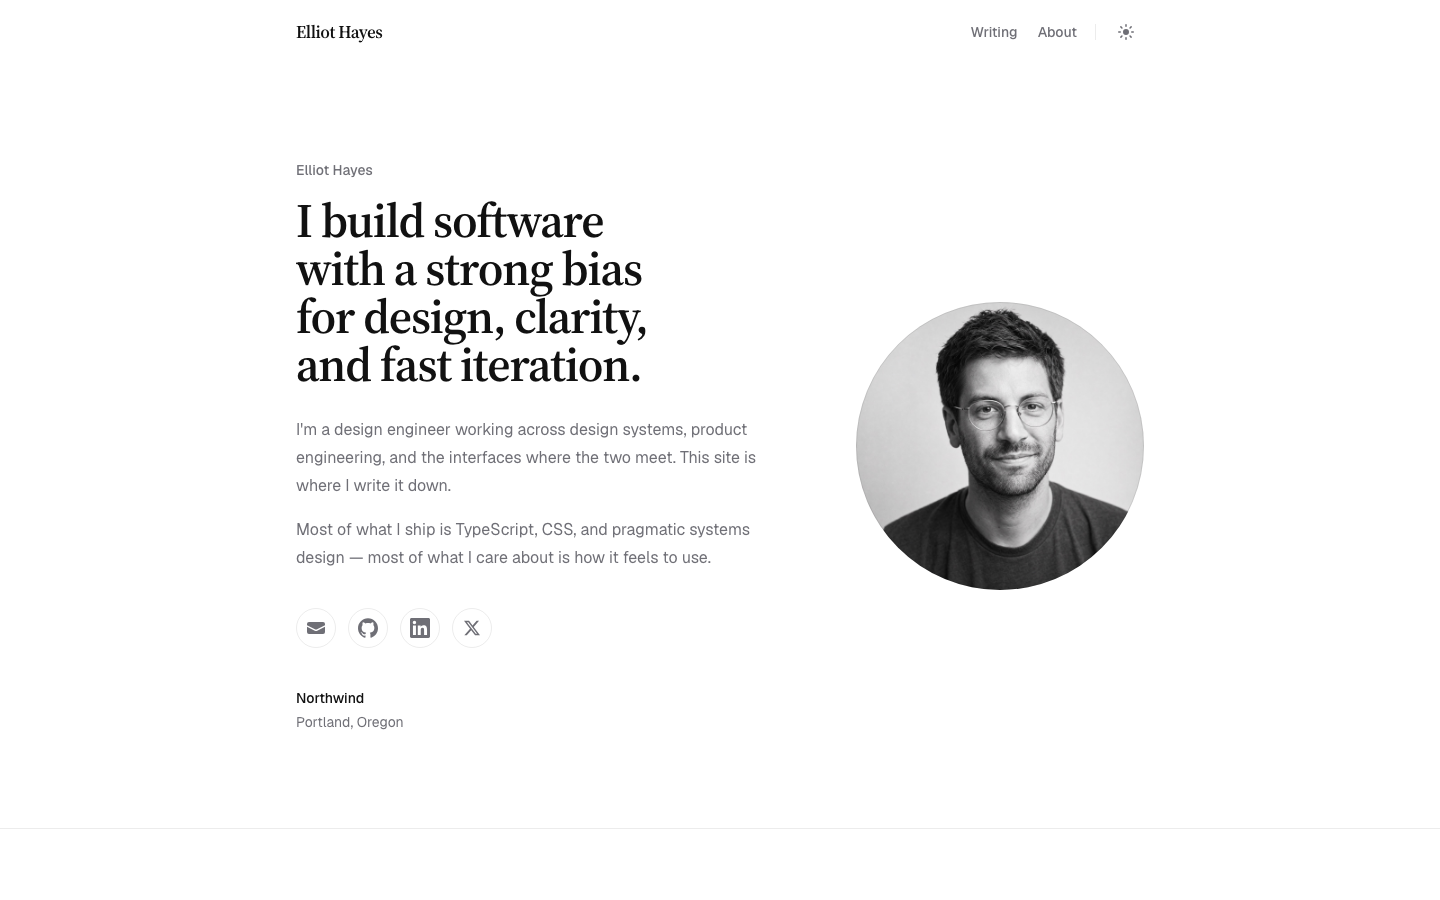
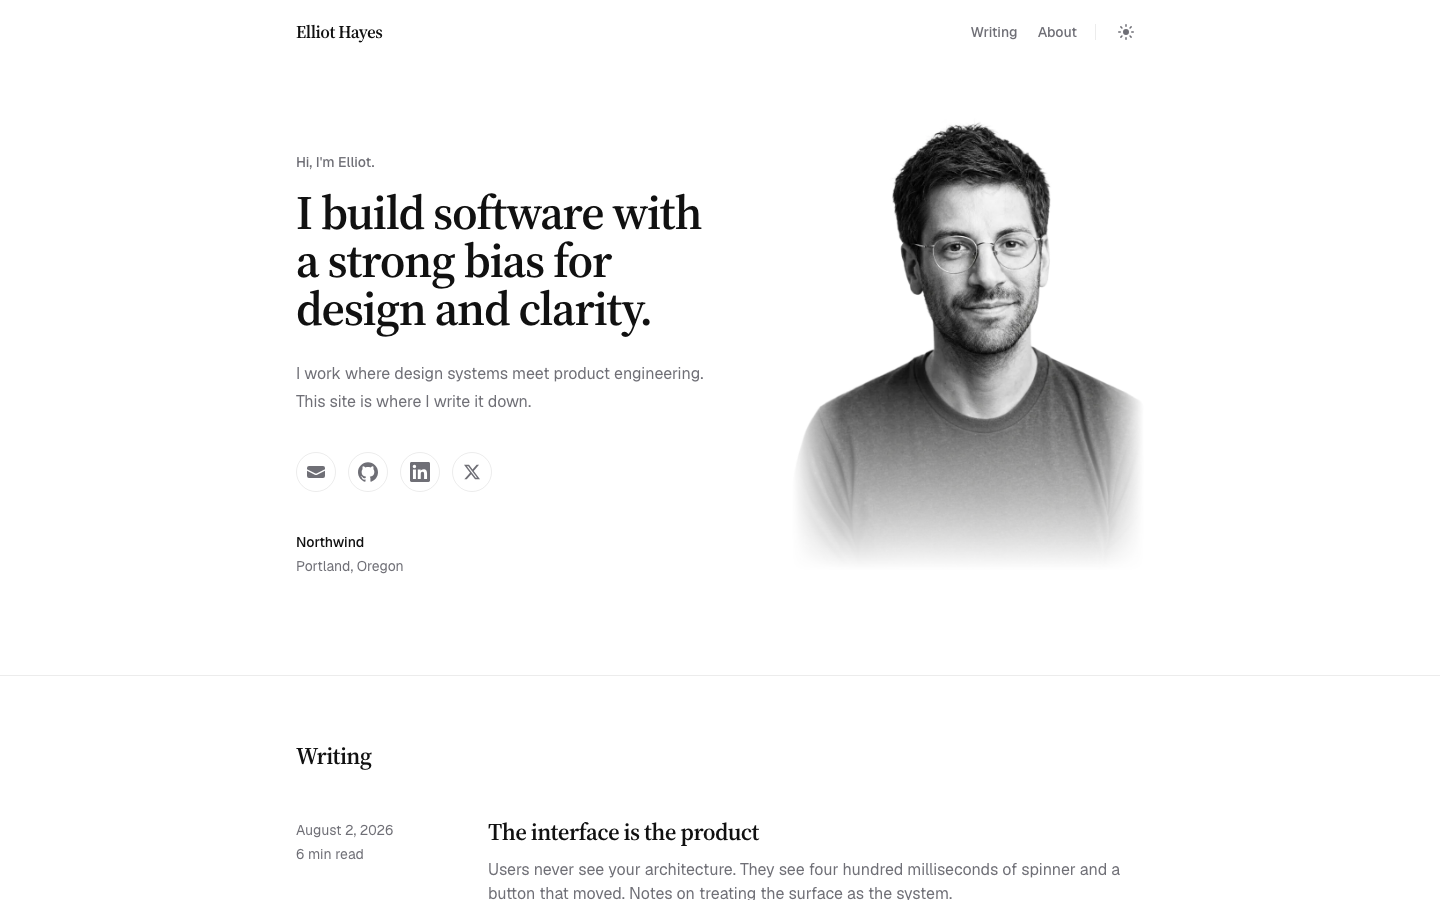
Masthead remaster: shorter greeting copy and the fade-out portrait graphic
The copy tightens to a greeting line, one serif statement, and a single
bio sentence. The circular avatar becomes a background-free high-key
cutout on the right whose shoulders feather into the canvas
(portrait-fade mask), sitting higher against the nav — it melts into
white in light mode and into the near-black in dark. New thumbnail.

diff --git a/files/resources/css/site.css b/files/resources/css/site.css
@@ -139,6 +139,18 @@ body {
 }
 
 /*
+    The masthead portrait: a background-free cutout whose lower edge feathers
+    out, so the figure melts into the canvas — white in light mode, near-black
+    in dark — like ink lifting off the page.
+*/
+@utility portrait-fade {
+    mask-image:
+        linear-gradient(to bottom, black 55%, transparent 95%),
+        linear-gradient(to right, transparent 0%, black 14%, black 86%, transparent 100%);
+    mask-composite: intersect;
+}
+
+/*
     The reading progress hairline on article pages. main.js drives --progress
     from scroll position; the bar only exists where the markup includes it.
 */

diff --git a/files/resources/views/components/sections/masthead.blade.php b/files/resources/views/components/sections/masthead.blade.php
@@ -1,38 +1,40 @@
 @props([
-    'name' => 'Elliot Hayes',
-    'statement' => 'I build software with a strong bias for design, clarity, and fast iteration.',
-    'bio' => "I'm a design engineer working across design systems, product engineering, and the interfaces where the two meet. This site is where I write it down.",
-    'bioTwo' => 'Most of what I ship is TypeScript, CSS, and pragmatic systems design — most of what I care about is how it feels to use.',
+    'greeting' => "Hi, I'm Elliot.",
+    'statement' => 'I build software with a strong bias for design and clarity.',
+    'bio' => 'I work where design systems meet product engineering. This site is where I write it down.',
+    'bioTwo' => '',
     'company' => 'Northwind',
     'location' => 'Portland, Oregon',
-    'portrait' => '/images/portrait.jpg',
+    'portrait' => '/images/portrait.webp',
     'portraitAlt' => 'Black-and-white portrait of Elliot Hayes',
     'showPortrait' => '1',
     'showSocial' => '1',
     'links' => [],
 ])
-<section class="pt-14 pb-16 sm:pt-24 sm:pb-24">
+<section class="pt-8 pb-14 sm:pt-12 sm:pb-20">
     <div class="mx-auto max-w-4xl px-6">
-        <div class="grid items-center gap-x-20 gap-y-12 lg:grid-cols-[1fr_auto]">
-            <div>
-                <p data-reveal class="text-base font-medium text-muted sm:text-sm">{{ $name }}</p>
-                <h1 data-reveal class="reveal-1 mt-4 max-w-[30ch] font-display text-4xl font-semibold tracking-tight text-balance text-ink sm:text-5xl">{{ $statement }}</h1>
+        <div class="grid items-start gap-x-16 gap-y-8 lg:grid-cols-[1fr_auto]">
+            <div class="lg:pt-10">
+                @if ($greeting)
+                    <p data-reveal class="text-base font-medium text-muted sm:text-sm">{{ $greeting }}</p>
+                @endif
+                <h1 data-reveal class="mt-4 max-w-[30ch] font-display text-4xl font-semibold tracking-tight text-balance text-ink sm:text-5xl">{{ $statement }}</h1>
 
                 @if ($bio)
-                    <p data-reveal class="reveal-2 mt-7 max-w-[52ch] text-lg text-pretty text-muted sm:text-base/7">{{ $bio }}</p>
+                    <p data-reveal class="reveal-1 mt-7 max-w-[52ch] text-lg text-pretty text-muted sm:text-base/7">{{ $bio }}</p>
                 @endif
                 @if ($bioTwo)
-                    <p data-reveal class="reveal-2 mt-4 max-w-[52ch] text-lg text-pretty text-muted sm:text-base/7">{{ $bioTwo }}</p>
+                    <p data-reveal class="reveal-1 mt-4 max-w-[52ch] text-lg text-pretty text-muted sm:text-base/7">{{ $bioTwo }}</p>
                 @endif
 
                 @if ($showSocial)
-                    <div data-reveal class="reveal-3 mt-9">
+                    <div data-reveal class="reveal-2 mt-9">
                         <x-social-links :links="$links"/>
                     </div>
                 @endif
 
                 @if ($company)
-                    <div data-reveal class="reveal-4 mt-10">
+                    <div data-reveal class="reveal-3 mt-10">
                         <p class="text-base font-medium text-ink sm:text-sm">{{ $company }}</p>
                         <p class="mt-1 text-base text-muted sm:text-sm">{{ $location }}</p>
                     </div>
@@ -40,8 +42,9 @@
             </div>
 
             @if ($showPortrait)
-                <div data-reveal class="reveal-2 max-lg:order-first">
-                    <img src="{{ $portrait }}" alt="{{ $portraitAlt }}" width="640" height="640" class="size-40 rounded-full object-cover outline-1 -outline-offset-1 outline-line sm:size-52 lg:size-72">
+                <!-- The portrait graphic: a background-free cutout whose shoulders fade into the canvas, so it melts into white and near-black alike -->
+                <div data-reveal class="reveal-1 max-lg:order-first lg:justify-self-end">
+                    <img src="{{ $portrait }}" alt="{{ $portraitAlt }}" width="800" height="1098" class="portrait-fade h-auto w-60 sm:w-72 lg:w-88">
                 </div>
             @endif
         </div>

diff --git a/files/resources/design.md b/files/resources/design.md
@@ -46,13 +46,17 @@ colored accent when editing this template.
 - Section rhythm: masthead `pt-20/pb-16` mobile → `pt-32/pb-24` desktop;
   post-list rows `py-9`; article blocks step in `mt-12`.
 - One spacing scale, 4/8-based. Whitespace is the luxury — never fill it.
-- Radius: `rounded-full` only for the portrait, avatars, and the theme
-  toggle; images `rounded-[min(1vw,12px)]`; everything else square or hairline.
+- Radius: `rounded-full` only for the social buttons and pagination arrows;
+  article images `rounded-[min(1vw,12px)]`; everything else square or hairline.
 
 ## Components
 
 - **Nav**: fixed, transparent at top; scrolling under it adds a translucent
   canvas + hairline (`data-scrolled`). Wordmark is the author's name in serif.
+- **Masthead**: a serif greeting statement, one short bio, social buttons, and
+  the portrait graphic on the right — a background-free B&W cutout whose
+  shoulders feather into the canvas (`portrait-fade` mask), so it melts into
+  white and near-black alike. Copy stays short; one paragraph, not an essay.
 - **Post list**: a left-aligned ledger — tabular date column, serif title,
   one-line excerpt, hairline dividers, no cards. The whole row is one `<a>`;
   hover slides a small arrow in and deepens the title to ink.
